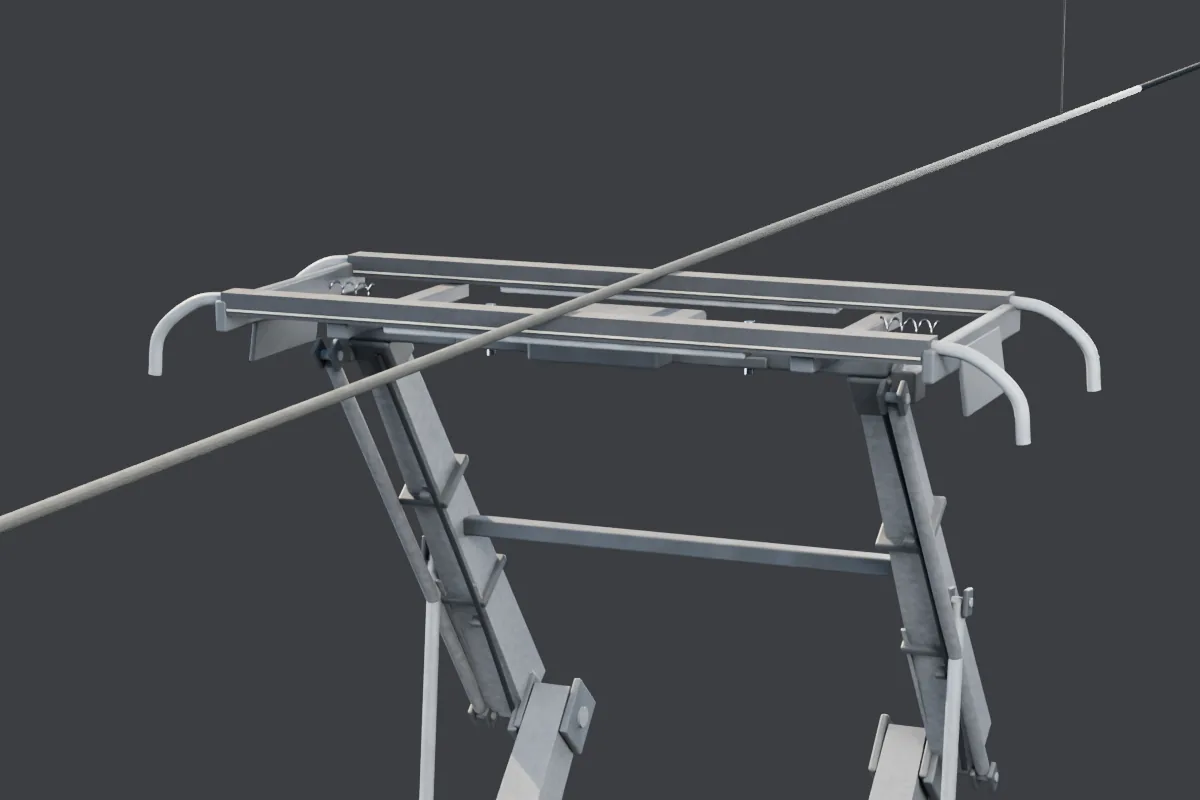
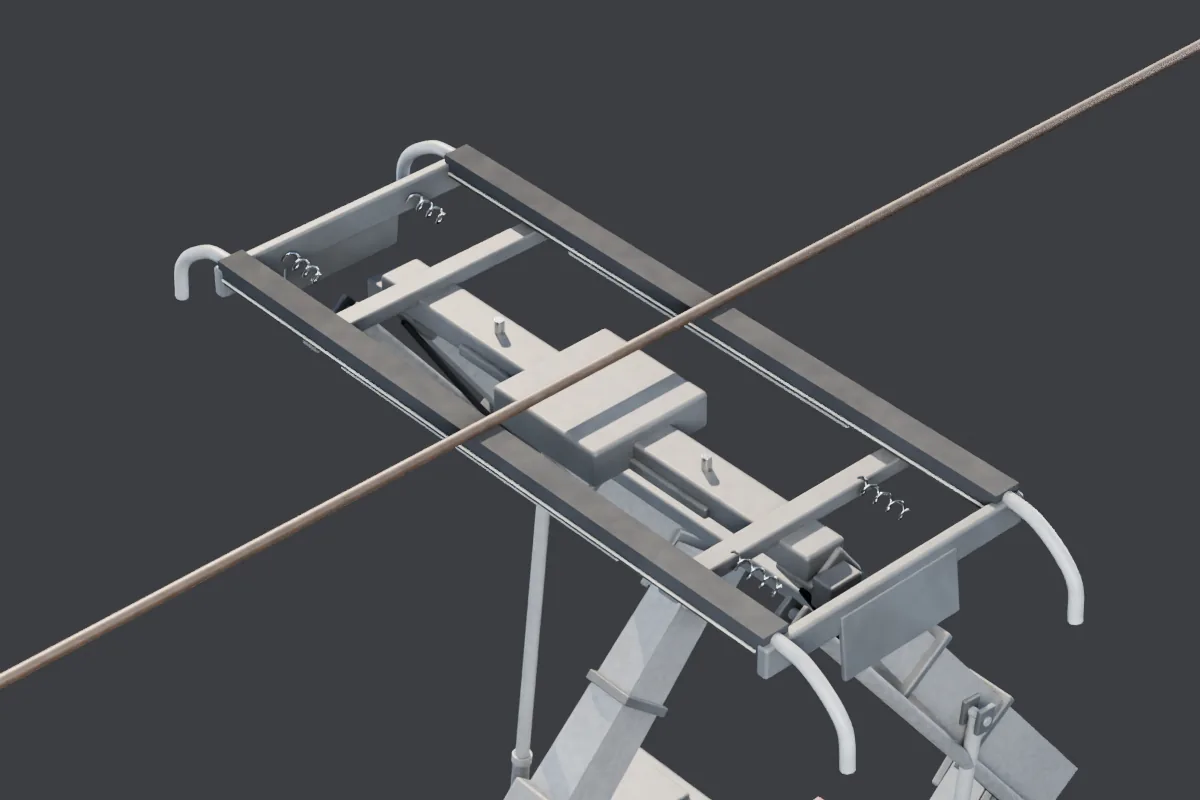
fix(a3d): 重拍 STEP2/STEP5，取景改为可调填充率 + 景深
## 取景算法（render.py，仅离线侧）
原来只有"塞满 99.5%"一条规则：整机图没问题，**特写必然翻车**（主体顶到画幅边，
一台设备在屏幕上只剩一堆横梁）。新增三个参数：
- FILL：包围盒占画幅比例（特写留边）；
- FRAME 支持 "a|b" 并集与 "!x" 排除（弓头特写必须连上臂一起框）；
- DOF：景深，对焦点 = 取景目标点。

## 两张图
- STEP2 改为"落弓状态 3/4 中景"（fill 0.62 / 85mm / 俯角 35°）。
  原因不是机位没调好：量得弓头顶面 0.761m、肘部 0.769m——**收弓时肘部比弓头高
  8mm**，折叠的四根臂必然架在弓头周围，落弓位拍不出干净的贴脸特写。
- STEP5 抬到俯角 38°（fill 0.96 / 100mm / f 8.5），弓头与上臂关系完整。

## 材质
- 深色件（碳滑板、气囊）：Specular IOR Level → 0、粗糙度 0.90–1.00、
  积灰 0.70 → 0.16。近黑基色（线性 0.042）在掠射角镜面反射率趋近 1，
  正对明亮影棚天空时会被刷成浅灰——这才是碳滑板"有时像铝"的原因。
- 接触线 wireMat：0x33352f（橄榄灰，暖光下像麻绳）→ 0x3c3129 + metalness 0.45，
  按铜镁合金接触线的实际颜色给。**这一处实时三维同步生效**。

## 样例与合规
- pantograph_raise.json：step2 的 alt 一行微调（"俯视" → "落弓状态：弓头搁在
  底架上方"），因为机位已不是俯视；无新增事实。
- 内容指纹：本人已确认合规（管理仓 内容合规确认 §4.13），§4.14 记本次 alt 微调，
  基线已 --write，--check 转绿。

## 门禁
571 后端 / 307 前端 / 覆盖率 69.83·54.92·59.35·71.45 / a11y 24 次 0 违规 /
首屏 CSS 3.92kB · JS 46.85kB / webp 5 张共 202.3kB（step2 41.0、step5 29.0）。

## 仍未解决（R8-4）
STEP5 的接触线仍会横穿弓头：线 Ø24、与滑板顶同高、两滑板相距 597mm，
只要不是纯侧视就消不掉"穿框"；纯侧视又让 1.95m 弓头缩成 0.67m 窄条，3:2 放不下。

Changed region(s): [[0.1233, 0.0312, 1.0, 1.0], [0.0, 0.6562, 0.2467, 0.875], [0.0, 0.5312, 0.2158, 0.6562]]

diff --git a/apps/electro-assist/web/src/figures/devices/pantograph.ts b/apps/electro-assist/web/src/figures/devices/pantograph.ts
@@ -1158,7 +1158,9 @@ export function buildPantograph(): DeviceRig {
 
   /* ---------------------------------------------------------------- 接触线 */
   /* 线沿 **Z**（车行方向），滑板横在它下面。画成沿 X 就正好与滑板平行，行内人一眼看出错。 */
-  const wireMat = new MeshStandardMaterial({ color: 0x33352f, metalness: 0.12, roughness: 0.74 })
+  /* 接触线是铜镁合金：**暖褐、金属感**。原来的 0x33352f 是橄榄灰，
+     在暖光下渲染出来像一根麻绳——特写里尤其明显。 */
+  const wireMat = new MeshStandardMaterial({ color: 0x3c3129, metalness: 0.45, roughness: 0.52 })
   const wireGroup = new Group()
   /* 命名不是为了好看：导出 glb 时节点名会被带出去，Blender 侧要按名字把这组
      「接触线 + 吊弦」排除在取景包围盒之外——它长 9m，混进去会把整机压成巴掌大。 */
